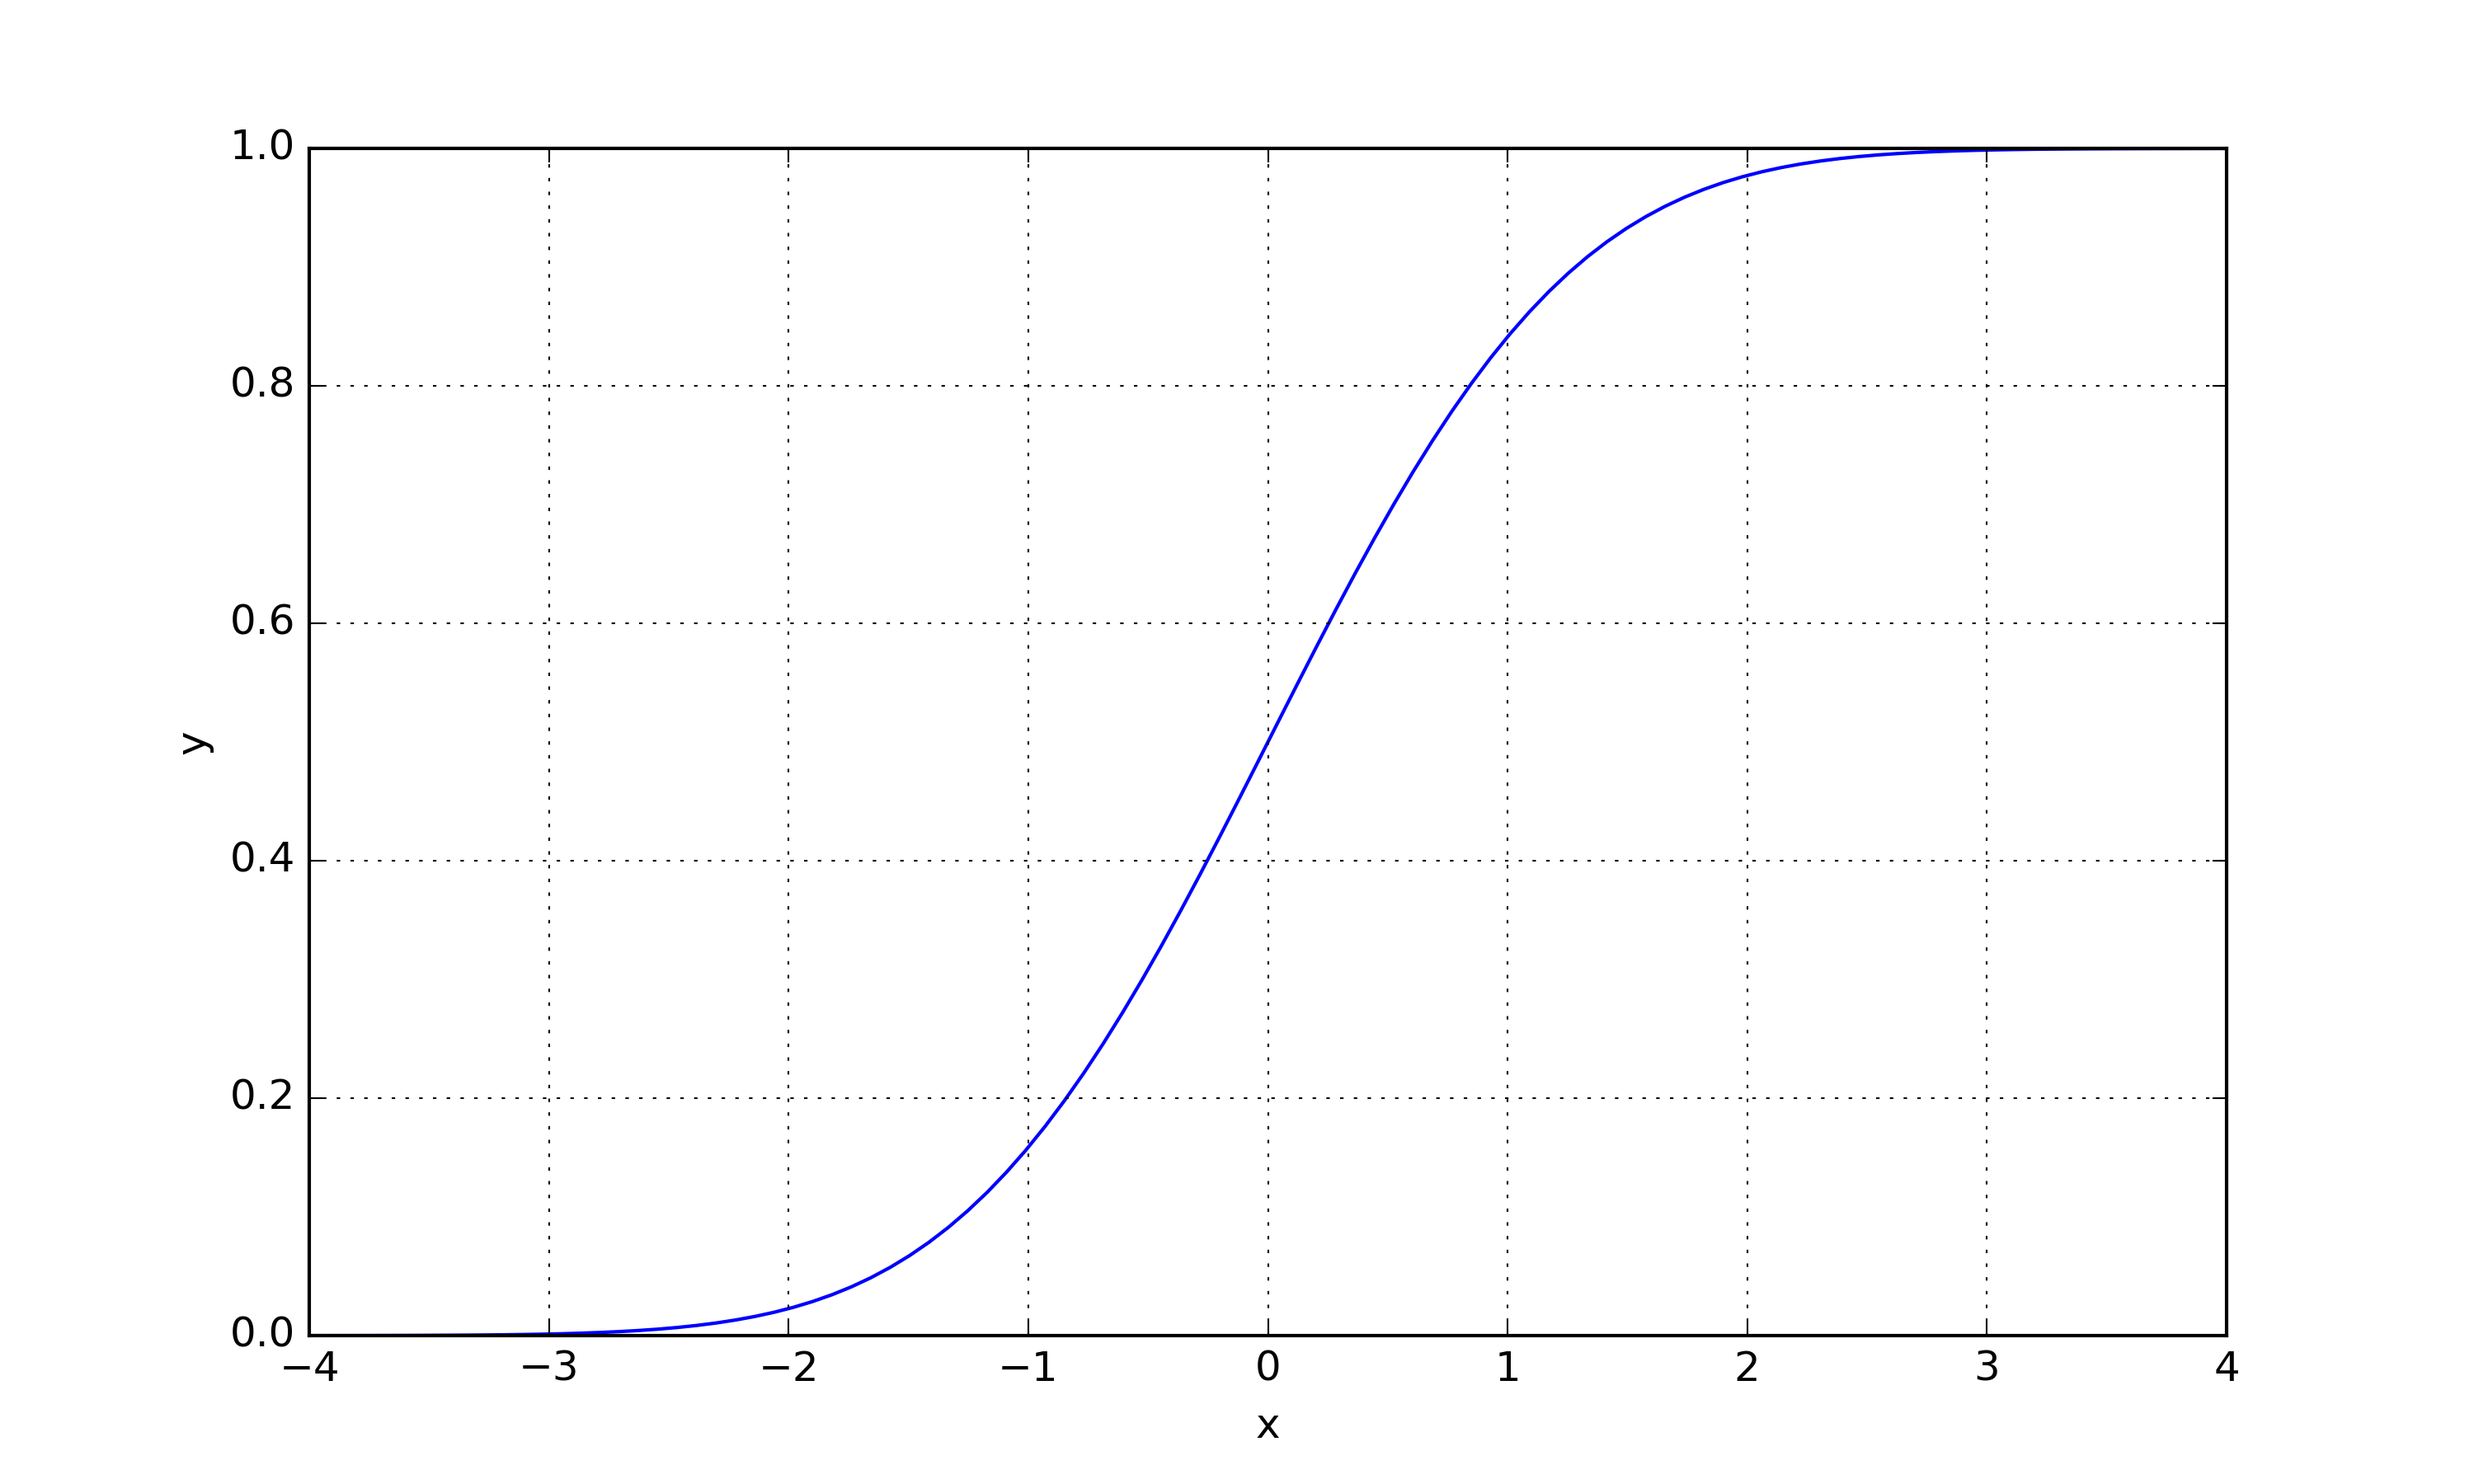
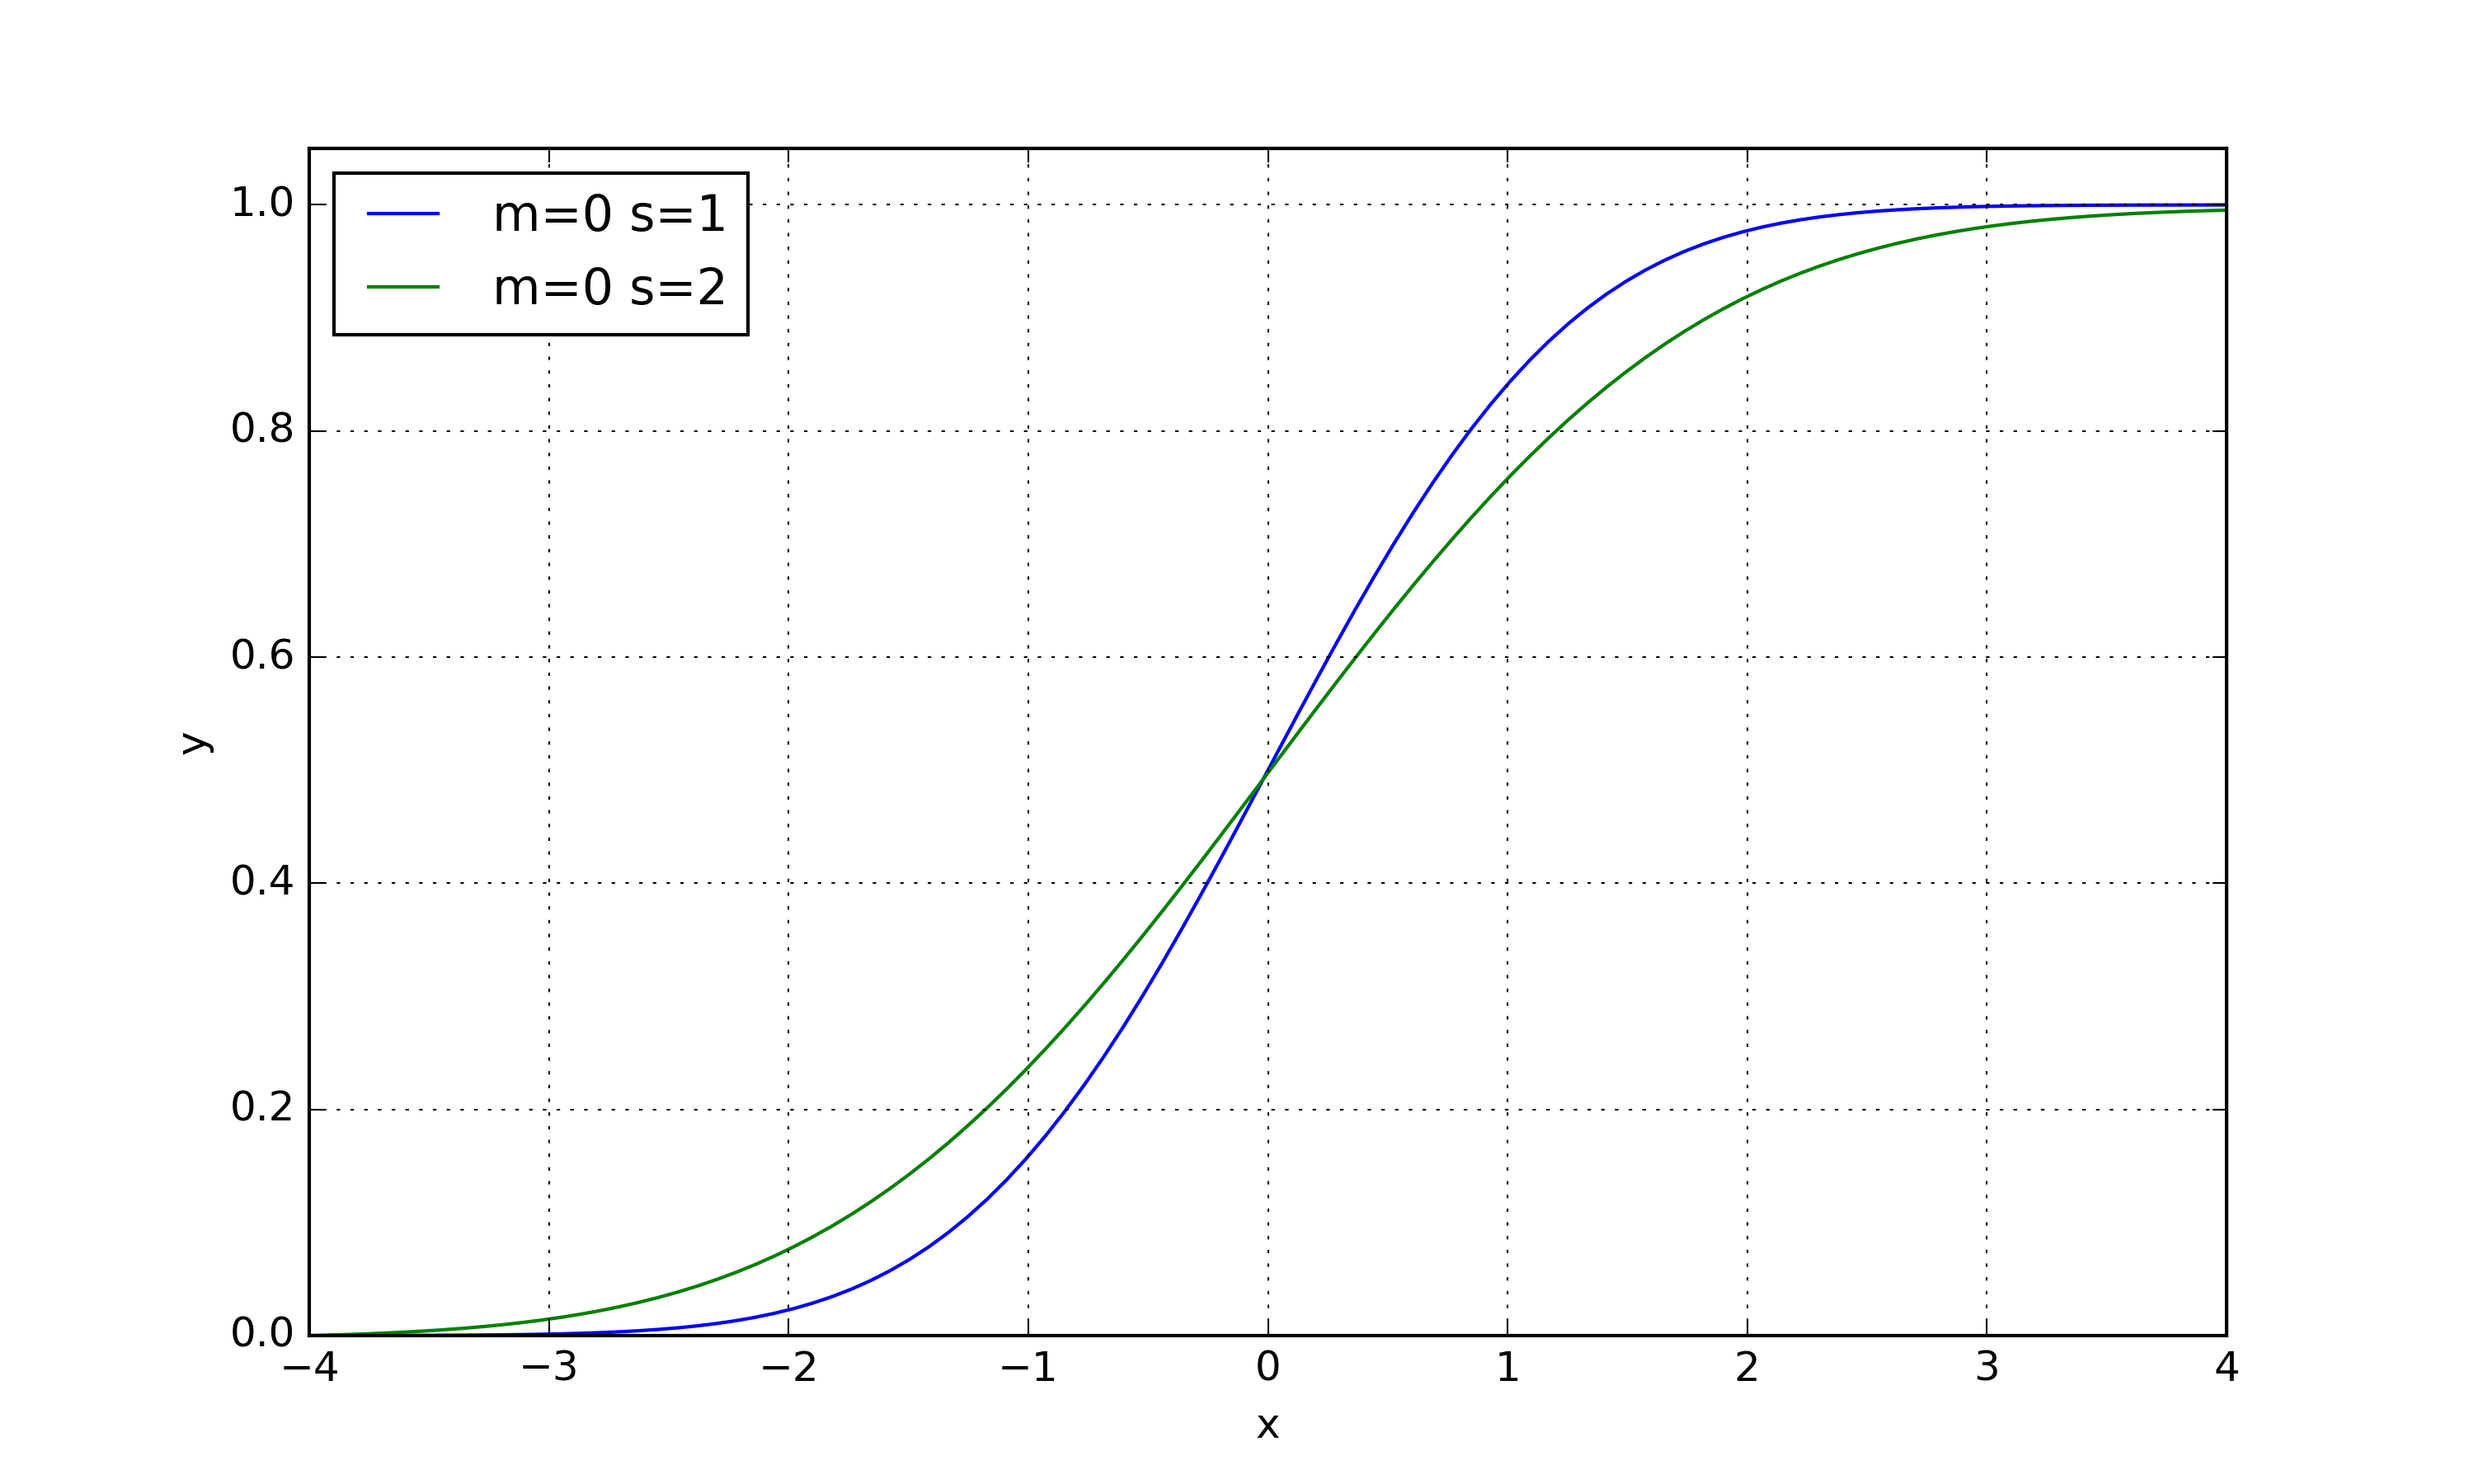
added multiplot functionality in density and cumulative distribution function

diff --git a/stats_fabozzi/continuous_prob_dists.py b/stats_fabozzi/continuous_prob_dists.py
@@ -22,37 +22,47 @@ class distribution():
         self.mean = mean
         self.stdev = stdev
         
-def plot_density_function(dist, title, pts=[0,1,100]):
+def plot_density_function(dists, title, pts=[0,1,100]):
     xs = np.linspace(pts[0], pts[1], pts[2])
-    ys = [dist.func(x) for x in xs]
     plt.figure(figsize=(10, 6))
     plt.grid(True)
     plt.xlabel('x')
     plt.ylabel('y')
-    plt.plot(xs, ys)
-    mn = min(ys)
+    mn = float("inf")
+    mx = float("-inf")
+    for dist in dists:
+        ys = [dist.func(x) for x in xs]
+        plt.plot(xs, ys, label=dist.name)
+        mn = min(mn, min(ys))
+        mx = max(mx, max(ys))
+    
     mn = mn * 0.95 if mn > 0 else mn * 1.05
-    mx = max(ys)
     mx = mx * 1.05 if mx > 0 else mx * 0.95
     plt.ylim(mn, mx)
-    plt.savefig('png/cont_dists/' + title+ '.png', dpi=300)
+    plt.legend(loc='upper left')
+    plt.savefig('png/cont_dists/' + title + '.png', dpi=300)
     plt.close()
 
 
-def plot_cumulative_dist_func(dist, title, pts=[0,1,100]):
+def plot_cumulative_dist_func(dists, title, pts=[0,1,100]):
     xs = np.linspace(pts[0], pts[1], pts[2])
-    ys = [dist.cum_dist(pts[0], x) for x in xs]
     plt.figure(figsize=(10, 6))
     plt.grid(True)
     plt.xlabel('x')
     plt.ylabel('y')
-    plt.plot(xs, ys)
-    mn = min(ys)
+    mn = float("inf")
+    mx = float("-inf")
+    for dist in dists:
+        ys = [dist.cum_dist(pts[0], x) for x in xs]
+        plt.plot(xs, ys, label=dist.name)
+        mn = min(mn, min(ys))
+        mx = max(mx, max(ys))
+    
     mn = mn * 0.95 if mn > 0 else mn * 1.05
-    mx = max(ys)
     mx = mx * 1.05 if mx > 0 else mx * 0.95
     plt.ylim(mn, mx)
-    plt.savefig('png/cont_dists/' + title+ '.png', dpi=300)
+    plt.legend(loc='upper left')
+    plt.savefig('png/cont_dists/' + title + '.png', dpi=300)
     plt.close()
 
 
@@ -68,8 +78,9 @@ def normal_dist(mean, stdev):
     
     dist.z_score = zscore
     dist.cum_dist = zscore
-    plot_density_function(dist, 'normal_dist', [-4,4,100])
-    plot_cumulative_dist_func(dist, 'normal_cum_dist', [-4,4,100])
+    dist.name = "m=" + str(mean) + " s=" + str(stdev)
+    # plot_density_function([dist], 'normal_dist', [-4,4,100])
+    # plot_cumulative_dist_func([dist], 'normal_cum_dist', [-4,4,100])
     return dist
     
 
@@ -210,6 +221,9 @@ def rect_dist(a, b):
 
 if __name__ == '__main__':
     # norm = normal_dist(0, 1)
+    # norm2 = normal_dist(0, 2)
+    # plot_density_function([norm, norm2], 'normal_dist', [-4,4,100])
+    # plot_cumulative_dist_func([norm, norm2], 'normal_cum_dist', [-4,4,100])
     # print(norm.mean())
     # print(norm.stdev())
     # print(norm.z_score(-1, 1))
